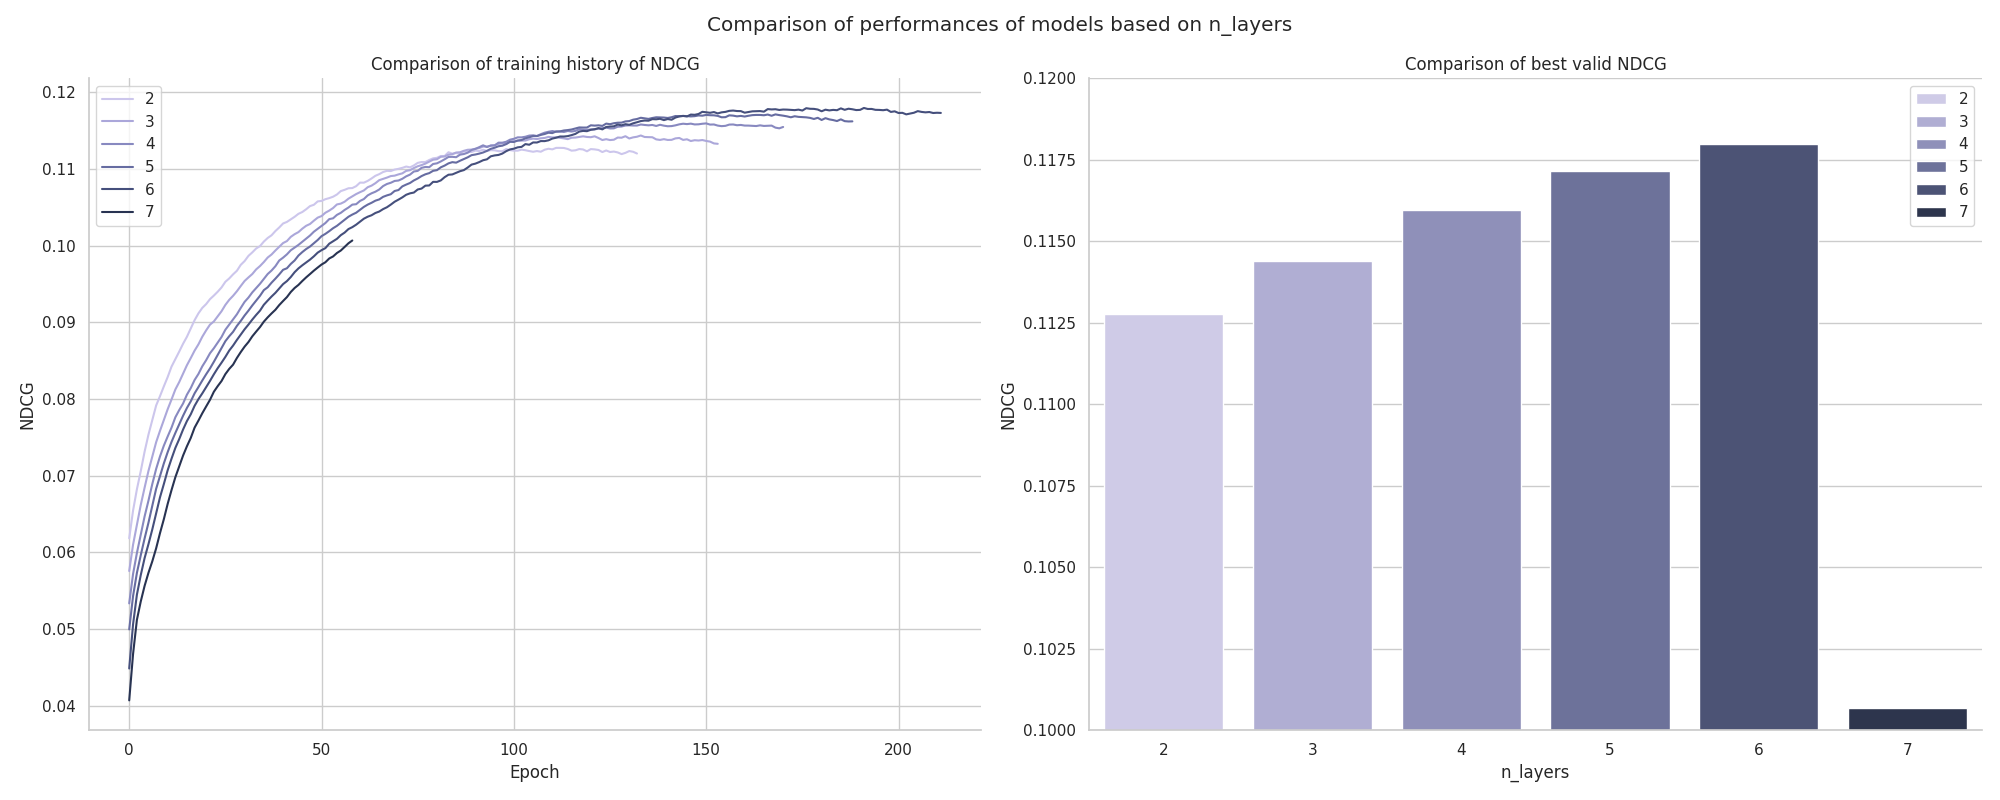
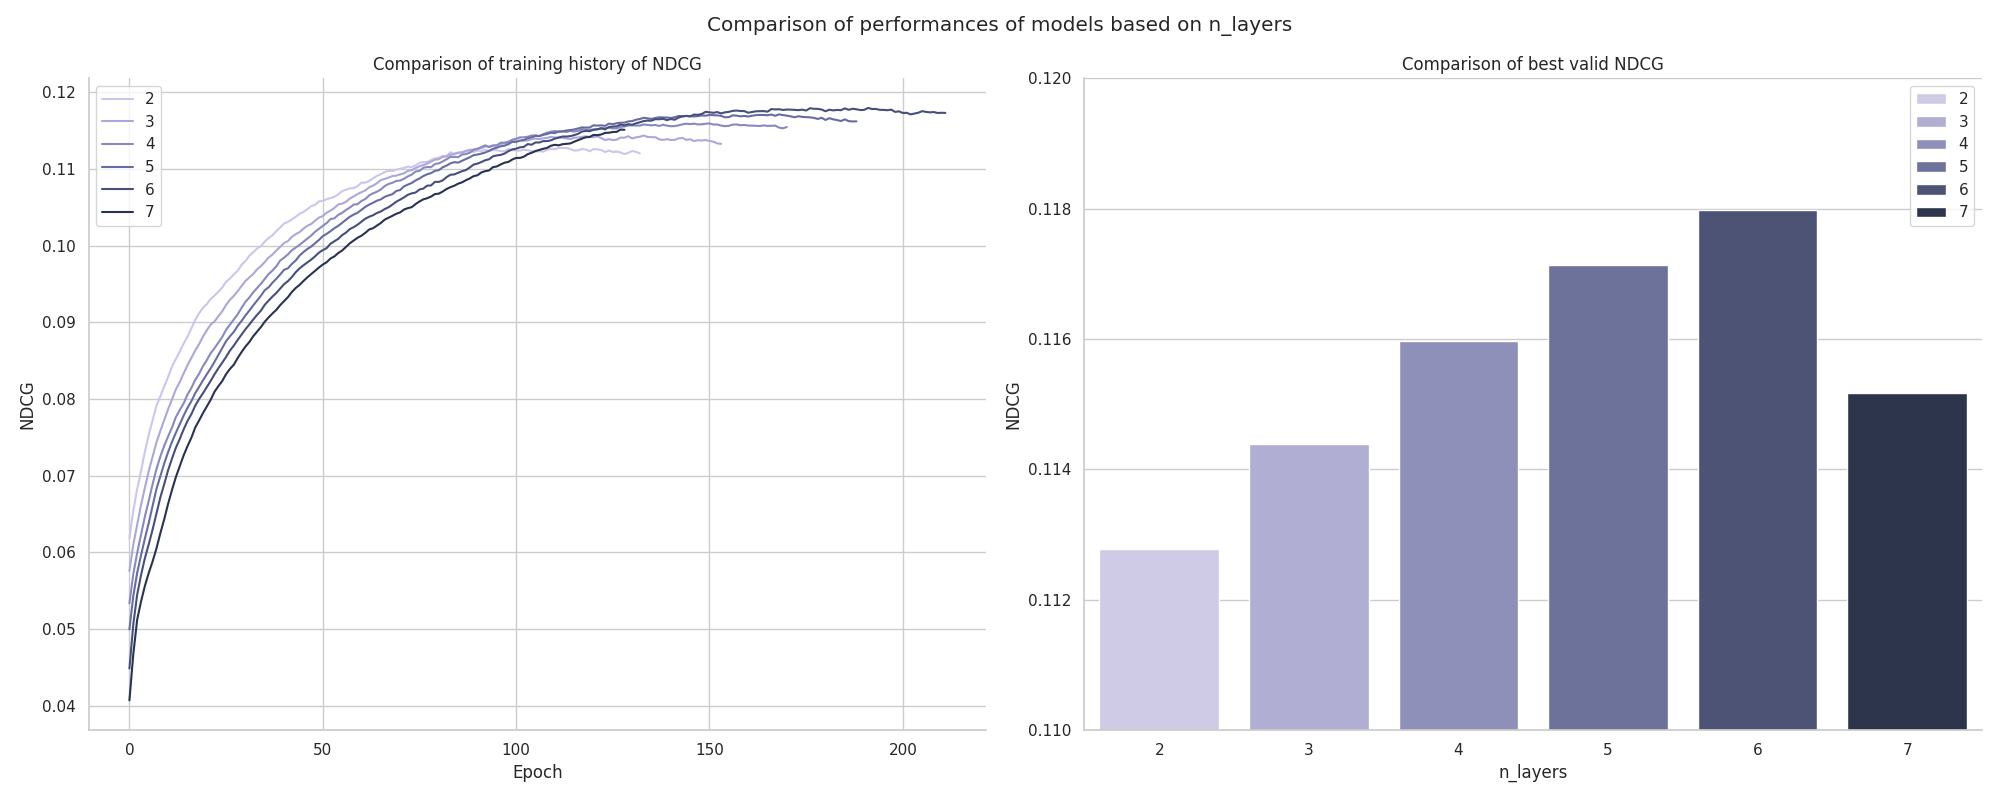
loading embeddings

diff --git a/evaluation/compare_models.py b/evaluation/compare_models.py
@@ -35,7 +35,32 @@ def load_hydra_config(name, config_path):
         cfg = compose(config_name=name, overrides=[])
         return cfg
 
-def plot_comparisons(names, targets, config_path, target_name=None):
+def plot_history_line(results, ax, palette):
+    sns.lineplot(results, x="epoch", y="ndcg", ax=ax, hue="target", palette=palette)
+
+    ax.set_title("Comparison of training history of NDCG")
+    ax.set_xlabel("Epoch")
+    ax.set_ylabel("NDCG")
+    ax.legend()
+
+def plot_ndcg_bar(results, ax, palette, target_name, sub_target_name=None):
+    if sub_target_name is None:
+        results = results[["target", "ndcg"]].groupby("target").agg("max")
+        sns.barplot(results, x="target", y="ndcg", ax=ax, hue="target", palette=palette)
+    else:
+        results = results[["target", "sub_target", "ndcg"]].groupby(["target", "sub_target"]).agg("max")
+        sns.barplot(results, x="target", y="ndcg", ax=ax, hue="sub_target", palette=palette)
+
+    min = math.floor(results["ndcg"].min() * 100) / 100
+    max = math.ceil(results["ndcg"].max() * 100) / 100
+    ax.set_ylim(min, max)
+
+    ax.set_title("Comparison of best valid NDCG")
+    ax.set_xlabel(target_name)
+    ax.set_ylabel("NDCG")
+    ax.legend()
+
+def plot_comparisons_one_target(names, targets, config_path, target_name=None):
     if target_name is None:
         target_name = targets[-1]
 
@@ -43,7 +68,7 @@ def plot_comparisons(names, targets, config_path, target_name=None):
     _, (ax1, ax2) = plt.subplots(1, 2, figsize=(20, 8))
     palette = sns.cubehelix_palette(n_colors=len(names), start=2.8, rot=0.1, dark=0.2, light=0.8)
 
-    plt.suptitle(f"Comparison of performances of models based on {targets[-1]}")
+    plt.suptitle(f"Comparison of performances of models based on {target_name}")
     results = []
     for name in names:
         cfg = load_hydra_config(name, config_path)
@@ -56,51 +81,74 @@ def plot_comparisons(names, targets, config_path, target_name=None):
         results.append(df)
 
     results = pd.concat(results, axis=0)
-    sns.lineplot(results, x="epoch", y="ndcg", ax=ax1, hue="target", palette=palette)
-
-    ax1.set_title("Comparison of training history of NDCG")
-    ax1.set_xlabel("Epoch")
-    ax1.set_ylabel("NDCG")
-    ax1.legend()
-
-    results = results[["target", "ndcg"]].groupby("target").agg("max")
-    sns.barplot(results, x="target", y="ndcg", ax=ax2, hue="target", palette=palette)
-    min = math.floor(results["ndcg"].min() * 100) / 100
-    max = math.ceil(results["ndcg"].max() * 100) / 100
-    ax2.set_ylim(min, max)
-
-    ax2.set_title("Comparison of best valid NDCG")
-    ax2.set_xlabel(target_name)
-    ax2.set_ylabel("NDCG")
-    ax2.legend()
+    plot_history_line(results, ax1, palette)
+    plot_ndcg_bar(results, ax2, palette, target_name)
 
     folder_path = f"../results/{cfg.dataset.country}/plots/comparisons/"
     os.makedirs(folder_path, exist_ok=True)
     plt.tight_layout()
     plt.savefig(f"{folder_path}/{target_name}.png")
 
+def plot_comparisons_two_targets(names, targets, config_path, target_name=None, sub_target_name=None):
+    if target_name is None:
+        target_name = targets[0][-1]
+        sub_target_name = targets[1][-1]
+
+    sns.set_theme(style="whitegrid", rc={"axes.spines.right": False, "axes.spines.top": False})
+    _, (ax1, ax2) = plt.subplots(1, 2, figsize=(20, 8))
+
+    palette = sns.cubehelix_palette(n_colors=len(names), start=2.8, rot=0.1, dark=0.2, light=0.8)
+
+    plt.suptitle(f"Comparison of performances of models based on {target_name}")
+    results = []
+    for name in names:
+        cfg = load_hydra_config(name, config_path)
+        target = cfg[targets[0][0]][targets[0][1]]
+        sub_target = cfg[targets[1][0]][targets[1][1]]
+
+        with open(f"../logs/{cfg.dataset.country}/{name}.json", "r") as f:
+            ndcg = json.load(f)["valid"]["ndcg"]
+
+        df = pd.DataFrame({
+            "epoch": range(len(ndcg)),
+            "ndcg": ndcg,
+            "target": [target] * len(ndcg),
+            "sub_target": [sub_target] * len(ndcg)
+        })
+
+        results.append(df)
+
+    results = pd.concat(results, axis=0)
+    plot_history_line(results, ax1, palette)
+    plot_ndcg_bar(results, ax2, palette, target_name, sub_target_name)
+
+    folder_path = f"../results/{cfg.dataset.country}/plots/comparisons/"
+    os.makedirs(folder_path, exist_ok=True)
+    plt.tight_layout()
+    plt.savefig(f"{folder_path}/{target_name}_{sub_target_name}.png")
+
 if __name__ == "__main__":
     config_path = "../config"
 
     names = ["emb_32", "baseline", "emb_128", "emb_256", "emb_512", "emb_1024"]
     targets = ["model", "embedding_dim"]
-    plot_comparisons(names, targets, config_path)
+    plot_comparisons_one_target(names, targets, config_path)
 
     names = ["n_layers_2", "baseline", "n_layers_4", "n_layers_5", "n_layers_6", "n_layers_7"]
     targets = ["model", "n_layers"]
-    plot_comparisons(names, targets, config_path)
+    plot_comparisons_one_target(names, targets, config_path)
 
     names = ["reg_0.01", "reg_0.001", "baseline", "reg_0.00001"]
     targets = ["training", "reg_weight"]
-    plot_comparisons(names, targets, config_path)
+    plot_comparisons_one_target(names, targets, config_path)
 
     names = ["baseline", "batch_2048", "batch_4096"]
     targets = ["training", "batch_size"]
-    plot_comparisons(names, targets, config_path)
+    plot_comparisons_one_target(names, targets, config_path)
 
     names = ["lr_0.01", "baseline", "lr_0.0001"]
     targets = ["training", "lr"]
-    plot_comparisons(names, targets, config_path)
+    plot_comparisons_one_target(names, targets, config_path)
 
     names = [
         "emb_512_n_layers_4_reg_0.001",
@@ -109,4 +157,15 @@ if __name__ == "__main__":
         "emb_512_n_layers_7_reg_0.001"
     ]
     targets = ["model", "n_layers"]
-    plot_comparisons(names, targets, config_path, target_name="emb_512_reg_0.001_n_layers")
+    plot_comparisons_one_target(names, targets, config_path, target_name="emb_512_reg_0.001_n_layers")
+
+
+    names = [
+        "emb_512_n_layers_6_reg_0.001_gentle_0.1",
+        "emb_512_n_layers_6_reg_0.001_gentle_0.05",
+        "emb_512_n_layers_7_reg_0.001_gentle_0.1",
+        # "emb_512_n_layers_7_reg_0.001_gentle_0.05",
+    ]
+
+    targets = [["model", "n_layers"], ["model", "decay"]]
+    plot_comparisons_two_targets(names, targets, config_path, target_name=None, sub_target_name=None)

diff --git a/training/lightgcn.py b/training/lightgcn.py
@@ -44,6 +44,17 @@ class LightGCN(nn.Module):
         users_emb, items_emb = torch.split(light_out, [self.n_users, self.n_items])
         return users_emb, items_emb
 
+    def load_embeddings(self, embeddings):
+        users_emb, items_emb = embeddings
+
+        device = self.embedding.weight.device
+        users_emb = users_emb.to(device)
+        items_emb = items_emb.to(device)
+
+        new_weights = torch.cat([users_emb, items_emb], dim=0)
+        with torch.no_grad():
+            self.embedding.weight.copy_(new_weights)
+
     def calculate_loss(self, embeddings, indices):
         users_emb, items_emb = embeddings
         user_idx, pos_idx, neg_idx = indices
